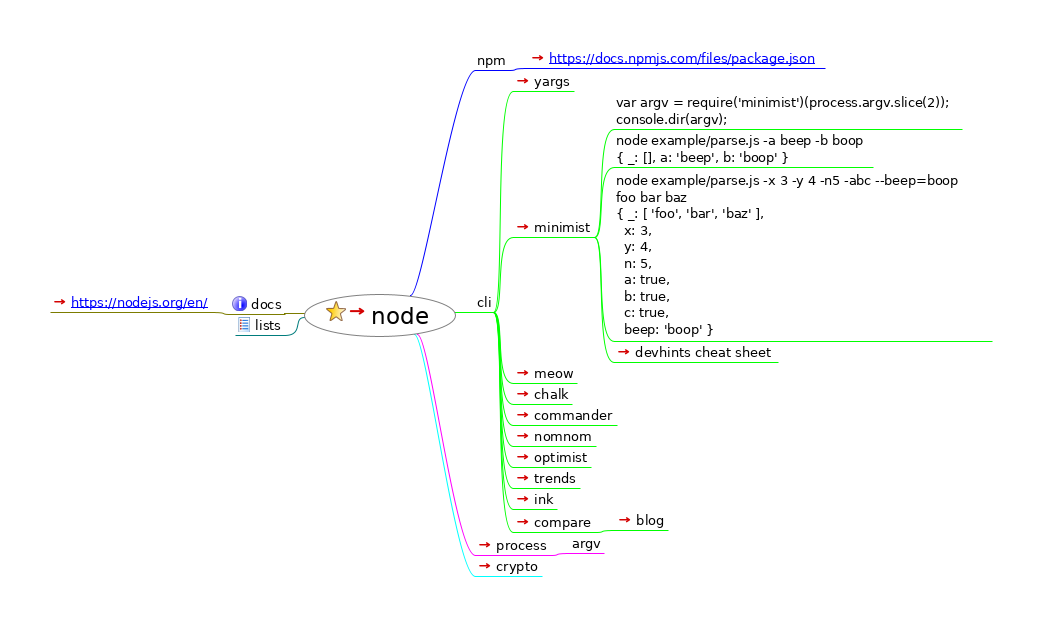
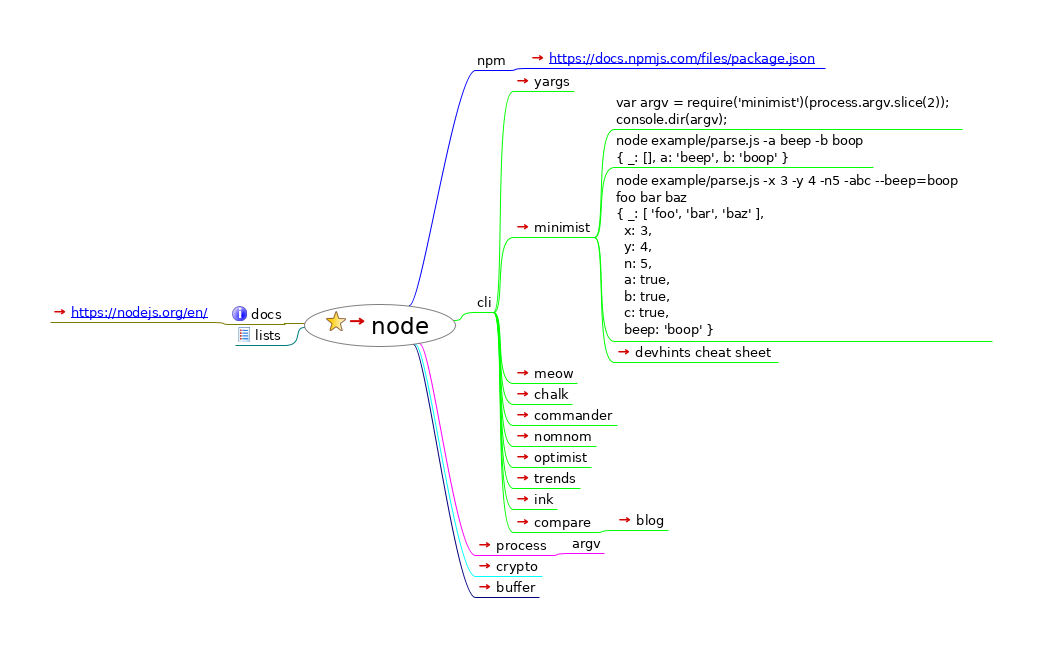
add stateofjs 2019

Changed region(s): [[0.0614, 0.1518, 0.952, 0.7588], [0.4299, 0.5767, 0.6449, 0.9409], [0.4607, 0.0607, 0.7985, 0.1518]]

diff --git a/index.html b/index.html
@@ -24,36 +24,37 @@
                };
           
           --></script></head><body><h1>JavaScript</h1><div style="width:96%;  padding:2%;  margin-bottom:10px;  border: 0px;  text-align:center;  vertical-align:center;"><img src="index.html_files/image.png" style="margin-bottom:10px; &#9;border: 0px; &#9;text-align:center; &#9;vertical-align:center;" alt="Imagemap" usemap="#fm_imagemap" /></div><map name="fm_imagemap" id="fm_imagemap"><area shape="rect" href="../tech/index.html" alt="JavaScript" title="JavaScript" coords="310,284,547,327" />
-<area shape="rect" href="https://github.com/solidpayorg/webmaps/" alt="webmaps" title="webmaps" coords="188,243,291,261" />
-<area shape="rect" href="#FMID_1425964050FM" alt="docs" title="docs" coords="236,295,291,313" />
-<area shape="rect" href="https://js-tldr.info/" alt="https://js-tldr.info/" title="https://js-tldr.info/" coords="77,264,217,282" />
-<area shape="rect" href="https://developer.mozilla.org/en-US/docs/Web/JavaScript" alt="MDN" title="MDN" coords="161,285,217,303" />
-<area shape="rect" href="https://devdocs.io/javascript/" alt="devdocs" title="devdocs" coords="138,306,217,324" />
-<area shape="rect" href="https://github.com/ryanmcdermott/clean-code-javascript" alt="clean-code-javascript" title="clean-code-javascript" coords="50,327,217,345" />
+<area shape="rect" href="https://github.com/solidpayorg/webmaps/" alt="webmaps" title="webmaps" coords="188,235,291,253" />
+<area shape="rect" href="#FMID_1425964050FM" alt="docs" title="docs" coords="236,287,291,305" />
+<area shape="rect" href="https://js-tldr.info/" alt="https://js-tldr.info/" title="https://js-tldr.info/" coords="77,256,217,274" />
+<area shape="rect" href="https://developer.mozilla.org/en-US/docs/Web/JavaScript" alt="MDN" title="MDN" coords="161,277,217,295" />
+<area shape="rect" href="https://devdocs.io/javascript/" alt="devdocs" title="devdocs" coords="138,298,217,316" />
+<area shape="rect" href="https://github.com/ryanmcdermott/clean-code-javascript" alt="clean-code-javascript" title="clean-code-javascript" coords="50,319,217,337" />
 <area shape="rect" href="#FMID_829378880FM" alt="lists" title="lists" coords="241,350,291,368" />
-<area shape="rect" href="https://github.com/sorrycc/awesome-javascript" alt="Awesome JavaScript" title="Awesome JavaScript" coords="62,348,222,366" />
+<area shape="rect" href="https://github.com/sorrycc/awesome-javascript" alt="Awesome JavaScript" title="Awesome JavaScript" coords="62,340,222,358" />
+<area shape="rect" href="https://2019.stateofjs.com/" alt="stateofjs 2019" title="stateofjs 2019" coords="103,361,222,379" />
 <area shape="rect" href="#FMID_849215328FM" alt="Communities" title="Communities" coords="566,52,676,70" />
 <area shape="rect" href="https://bxjs.dev/" alt="https://bxjs.dev/" title="https://bxjs.dev/" coords="695,50,823,68" />
 <area shape="rect" href="language.html" alt="language" title="language" coords="566,73,668,91" />
-<area shape="rect" href="#FMID_153818301FM" alt="frameworks" title="frameworks" coords="566,213,669,231" />
-<area shape="rect" href="#FMID_208171559FM" alt="MVVM" title="MVVM" coords="688,115,733,133" />
-<area shape="rect" href="react/index.html" alt="react" title="react" coords="752,94,825,112" />
-<area shape="rect" href="https://vuejs.org/" alt="vue" title="vue" coords="752,115,801,133" />
-<area shape="rect" href="https://angular.io/" alt="angular" title="angular" coords="752,136,827,154" />
-<area shape="rect" href="#FMID_156551041FM" alt="state" title="state" coords="688,245,726,263" />
-<area shape="rect" href="https://redux.js.org/" alt="Redux" title="Redux" coords="745,243,811,261" />
-<area shape="rect" href="#FMID_952075275FM" alt="A predictable state container for JavaSc ..." title="A predictable state container for JavaSc ..." coords="830,157,1162,175" />
-<area shape="rect" href="https://redux.js.org/introduction/getting-started" alt="Getting Started" title="Getting Started" coords="830,180,957,198" />
-<area shape="rect" href="#FMID_332762210FM" alt="npm install --save redux" title="npm install --save redux" coords="976,178,1142,196" />
-<area shape="rect" href="#FMID_737373630FM" alt="Terms" title="Terms" coords="830,252,881,270" />
-<area shape="rect" href="#FMID_135925682FM" alt="Store" title="Store" coords="900,211,945,229" />
-<area shape="rect" href="#FMID_877971409FM" alt="The whole state of your app is stored in ..." title="The whole state of your app is stored in ..." coords="964,201,1342,236" />
-<area shape="rect" href="#FMID_334240610FM" alt="Action" title="Action" coords="900,249,952,267" />
-<area shape="rect" href="#FMID_1174193716FM" alt="The only way to change the state tree is ..." title="The only way to change the state tree is ..." coords="971,239,1349,274" />
-<area shape="rect" href="#FMID_226284364FM" alt="Reducer" title="Reducer" coords="900,287,966,305" />
-<area shape="rect" href="#FMID_697698801FM" alt="To specify how the actions transform the ..." title="To specify how the actions transform the ..." coords="985,277,1363,312" />
-<area shape="rect" href="https://redux.js.org/introduction/examples" alt="examples" title="examples" coords="830,317,919,335" />
-<area shape="rect" href="https://codesandbox.io/s/reduxjs-joqhu" alt="codesandbox" title="codesandbox" coords="938,315,1051,333" />
+<area shape="rect" href="#FMID_153818301FM" alt="frameworks" title="frameworks" coords="566,213,668,231" />
+<area shape="rect" href="#FMID_208171559FM" alt="MVVM" title="MVVM" coords="687,115,732,133" />
+<area shape="rect" href="react/index.html" alt="react" title="react" coords="751,94,824,112" />
+<area shape="rect" href="https://vuejs.org/" alt="vue" title="vue" coords="751,115,800,133" />
+<area shape="rect" href="https://angular.io/" alt="angular" title="angular" coords="751,136,826,154" />
+<area shape="rect" href="#FMID_156551041FM" alt="state" title="state" coords="687,245,725,263" />
+<area shape="rect" href="https://redux.js.org/" alt="Redux" title="Redux" coords="744,243,810,261" />
+<area shape="rect" href="#FMID_952075275FM" alt="A predictable state container for JavaSc ..." title="A predictable state container for JavaSc ..." coords="829,157,1161,175" />
+<area shape="rect" href="https://redux.js.org/introduction/getting-started" alt="Getting Started" title="Getting Started" coords="829,180,956,198" />
+<area shape="rect" href="#FMID_332762210FM" alt="npm install --save redux" title="npm install --save redux" coords="975,178,1141,196" />
+<area shape="rect" href="#FMID_737373630FM" alt="Terms" title="Terms" coords="829,252,880,270" />
+<area shape="rect" href="#FMID_135925682FM" alt="Store" title="Store" coords="899,211,944,229" />
+<area shape="rect" href="#FMID_877971409FM" alt="The whole state of your app is stored in ..." title="The whole state of your app is stored in ..." coords="963,201,1341,236" />
+<area shape="rect" href="#FMID_334240610FM" alt="Action" title="Action" coords="899,249,951,267" />
+<area shape="rect" href="#FMID_1174193716FM" alt="The only way to change the state tree is ..." title="The only way to change the state tree is ..." coords="970,239,1348,274" />
+<area shape="rect" href="#FMID_226284364FM" alt="Reducer" title="Reducer" coords="899,287,965,305" />
+<area shape="rect" href="#FMID_697698801FM" alt="To specify how the actions transform the ..." title="To specify how the actions transform the ..." coords="984,277,1362,312" />
+<area shape="rect" href="https://redux.js.org/introduction/examples" alt="examples" title="examples" coords="829,317,918,335" />
+<area shape="rect" href="https://codesandbox.io/s/reduxjs-joqhu" alt="codesandbox" title="codesandbox" coords="937,315,1050,333" />
 <area shape="rect" href="questions.html" alt="questions" title="questions" coords="566,338,655,356" />
 <area shape="rect" href="#FMID_1460537766FM" alt="sandboxes" title="sandboxes" coords="566,390,662,408" />
 <area shape="rect" href="https://codesandbox.io/" alt="Code Sandbox" title="Code Sandbox" coords="681,359,801,377" />
@@ -69,7 +70,7 @@
 
 <div class="node"><img src="index.html_files/hide.png" class="hideshow" alt="hide" onClick="toggle(&quot;N65543&quot;)" id="imgN65543" /><img src="index.html_files/icons/bookmark.svg" alt="bookmark" /> <a id="FMID_110073400FM" /><div class="nodecontent" style="color:#000000;font-size:150%;"><a href="../tech/index.html">JavaScript</a> <a href="../tech/index.html"><img src="index.html_files/ilink.png" alt="User Link" style="border-width:0" /></a></div><div class="content" id="N65543"><div class="node"><img src="index.html_files/leaf.png" class="hideshow" alt="leaf" /><img src="index.html_files/icons/bookmark.svg" alt="bookmark" /> <a id="FMID_634574866FM" /><div class="nodecontent" style="color:#000000;font-size:83%;"><a href="https://github.com/solidpayorg/webmaps/">webmaps</a> <a href="https://github.com/solidpayorg/webmaps/"><img src="index.html_files/ilink.png" alt="User Link" style="border-width:0" /></a></div></div><div class="node"><img src="index.html_files/hide.png" class="hideshow" alt="hide" onClick="toggle(&quot;N66488&quot;)" id="imgN66488" /><img src="index.html_files/icons/info.svg" alt="info" /> <a id="FMID_1425964050FM" /><div class="nodecontent" style="color:#000000;font-size:83%;">docs</div><div class="content" id="N66488"><div class="node"><img src="index.html_files/leaf.png" class="hideshow" alt="leaf" /><a id="FMID_1375223842FM" /><div class="nodecontent" style="color:#000000;font-size:83%;"><a href="https://js-tldr.info/">
     <a http-equiv="content-type" content="text/html; charset=utf-8" href="https://js-tldr.info/">https://js-tldr.info/</a>
-  </a> <a href="https://js-tldr.info/"><img src="index.html_files/ilink.png" alt="User Link" style="border-width:0" /></a></div></div><div class="node"><img src="index.html_files/leaf.png" class="hideshow" alt="leaf" /><a id="FMID_773205118FM" /><div class="nodecontent" style="color:#000000;font-size:83%;"><a href="https://developer.mozilla.org/en-US/docs/Web/JavaScript">MDN</a> <a href="https://developer.mozilla.org/en-US/docs/Web/JavaScript"><img src="index.html_files/ilink.png" alt="User Link" style="border-width:0" /></a></div></div><div class="node"><img src="index.html_files/leaf.png" class="hideshow" alt="leaf" /><a id="FMID_83129282FM" /><div class="nodecontent" style="color:#000000;font-size:83%;"><a href="https://devdocs.io/javascript/">devdocs</a> <a href="https://devdocs.io/javascript/"><img src="index.html_files/ilink.png" alt="User Link" style="border-width:0" /></a></div></div><div class="node"><img src="index.html_files/leaf.png" class="hideshow" alt="leaf" /><a id="FMID_724832318FM" /><div class="nodecontent" style="color:#000000;font-size:83%;"><a href="https://github.com/ryanmcdermott/clean-code-javascript">clean-code-javascript</a> <a href="https://github.com/ryanmcdermott/clean-code-javascript"><img src="index.html_files/ilink.png" alt="User Link" style="border-width:0" /></a></div></div></div></div><div class="node"><img src="index.html_files/hide.png" class="hideshow" alt="hide" onClick="toggle(&quot;N66696&quot;)" id="imgN66696" /><img src="index.html_files/icons/list.svg" alt="list" /> <a id="FMID_829378880FM" /><div class="nodecontent" style="color:#000000;font-size:83%;">lists</div><div class="content" id="N66696"><div class="node"><img src="index.html_files/leaf.png" class="hideshow" alt="leaf" /><a id="FMID_157748484FM" /><div class="nodecontent" style="color:#000000;font-size:83%;"><a href="https://github.com/sorrycc/awesome-javascript">Awesome JavaScript</a> <a href="https://github.com/sorrycc/awesome-javascript"><img src="index.html_files/ilink.png" alt="User Link" style="border-width:0" /></a></div></div></div></div><div class="node"><img src="index.html_files/hide.png" class="hideshow" alt="hide" onClick="toggle(&quot;N66775&quot;)" id="imgN66775" /><img src="index.html_files/icons/licq.svg" alt="licq" /> <a id="FMID_849215328FM" /><div class="nodecontent" style="color:#000000;font-size:83%;">Communities</div><div class="content" id="N66775"><div class="node"><img src="index.html_files/leaf.png" class="hideshow" alt="leaf" /><a id="FMID_1384859362FM" /><div class="nodecontent" style="color:#000000;font-size:83%;"><a href="https://bxjs.dev/">
+  </a> <a href="https://js-tldr.info/"><img src="index.html_files/ilink.png" alt="User Link" style="border-width:0" /></a></div></div><div class="node"><img src="index.html_files/leaf.png" class="hideshow" alt="leaf" /><a id="FMID_773205118FM" /><div class="nodecontent" style="color:#000000;font-size:83%;"><a href="https://developer.mozilla.org/en-US/docs/Web/JavaScript">MDN</a> <a href="https://developer.mozilla.org/en-US/docs/Web/JavaScript"><img src="index.html_files/ilink.png" alt="User Link" style="border-width:0" /></a></div></div><div class="node"><img src="index.html_files/leaf.png" class="hideshow" alt="leaf" /><a id="FMID_83129282FM" /><div class="nodecontent" style="color:#000000;font-size:83%;"><a href="https://devdocs.io/javascript/">devdocs</a> <a href="https://devdocs.io/javascript/"><img src="index.html_files/ilink.png" alt="User Link" style="border-width:0" /></a></div></div><div class="node"><img src="index.html_files/leaf.png" class="hideshow" alt="leaf" /><a id="FMID_724832318FM" /><div class="nodecontent" style="color:#000000;font-size:83%;"><a href="https://github.com/ryanmcdermott/clean-code-javascript">clean-code-javascript</a> <a href="https://github.com/ryanmcdermott/clean-code-javascript"><img src="index.html_files/ilink.png" alt="User Link" style="border-width:0" /></a></div></div></div></div><div class="node"><img src="index.html_files/hide.png" class="hideshow" alt="hide" onClick="toggle(&quot;N66696&quot;)" id="imgN66696" /><img src="index.html_files/icons/list.svg" alt="list" /> <a id="FMID_829378880FM" /><div class="nodecontent" style="color:#000000;font-size:83%;">lists</div><div class="content" id="N66696"><div class="node"><img src="index.html_files/leaf.png" class="hideshow" alt="leaf" /><a id="FMID_157748484FM" /><div class="nodecontent" style="color:#000000;font-size:83%;"><a href="https://github.com/sorrycc/awesome-javascript">Awesome JavaScript</a> <a href="https://github.com/sorrycc/awesome-javascript"><img src="index.html_files/ilink.png" alt="User Link" style="border-width:0" /></a></div></div><div class="node"><img src="index.html_files/leaf.png" class="hideshow" alt="leaf" /><a id="FMID_1532315868FM" /><div class="nodecontent" style="color:#000000;font-size:83%;"><a href="https://2019.stateofjs.com/">stateofjs 2019</a> <a href="https://2019.stateofjs.com/"><img src="index.html_files/ilink.png" alt="User Link" style="border-width:0" /></a></div></div></div></div><div class="node"><img src="index.html_files/hide.png" class="hideshow" alt="hide" onClick="toggle(&quot;N66812&quot;)" id="imgN66812" /><img src="index.html_files/icons/licq.svg" alt="licq" /> <a id="FMID_849215328FM" /><div class="nodecontent" style="color:#000000;font-size:83%;">Communities</div><div class="content" id="N66812"><div class="node"><img src="index.html_files/leaf.png" class="hideshow" alt="leaf" /><a id="FMID_1384859362FM" /><div class="nodecontent" style="color:#000000;font-size:83%;"><a href="https://bxjs.dev/">
     <a http-equiv="content-type" content="text/html; charset=utf-8" href="https://bxjs.dev/">https://bxjs.dev/</a>
-  </a> <a href="https://bxjs.dev/"><img src="index.html_files/ilink.png" alt="User Link" style="border-width:0" /></a></div></div></div></div><div class="node"><img src="index.html_files/leaf.png" class="hideshow" alt="leaf" /><img src="index.html_files/icons/edit.svg" alt="edit" /> <a id="FMID_1566689685FM" /><div class="nodecontent" style="color:#000000;font-size:83%;"><a href="language.html">language</a> <a href="language.html"><img src="index.html_files/ilink.png" alt="User Link" style="border-width:0" /></a></div></div><div class="node"><img src="index.html_files/hide.png" class="hideshow" alt="hide" onClick="toggle(&quot;N66915&quot;)" id="imgN66915" /><img src="index.html_files/icons/executable.svg" alt="executable" /> <a id="FMID_153818301FM" /><div class="nodecontent" style="color:#000000;font-size:83%;">frameworks</div><div class="content" id="N66915"><div class="node"><img src="index.html_files/hide.png" class="hideshow" alt="hide" onClick="toggle(&quot;N66956&quot;)" id="imgN66956" /><a id="FMID_208171559FM" /><div class="nodecontent" style="color:#000000;font-size:83%;">MVVM</div><div class="content" id="N66956"><div class="node"><img src="index.html_files/leaf.png" class="hideshow" alt="leaf" /><img src="index.html_files/icons/list.svg" alt="list" /> <a id="FMID_921980201FM" /><div class="nodecontent" style="color:#000000;font-size:83%;"><a href="react/index.html">react</a> <a href="react/index.html"><img src="index.html_files/ilink.png" alt="User Link" style="border-width:0" /></a></div></div><div class="node"><img src="index.html_files/leaf.png" class="hideshow" alt="leaf" /><a id="FMID_850712897FM" /><div class="nodecontent" style="color:#000000;font-size:83%;"><a href="https://vuejs.org/">vue</a> <a href="https://vuejs.org/"><img src="index.html_files/ilink.png" alt="User Link" style="border-width:0" /></a></div></div><div class="node"><img src="index.html_files/leaf.png" class="hideshow" alt="leaf" /><a id="FMID_101804111FM" /><div class="nodecontent" style="color:#000000;font-size:83%;"><a href="https://angular.io/">angular</a> <a href="https://angular.io/"><img src="index.html_files/ilink.png" alt="User Link" style="border-width:0" /></a></div></div></div></div><div class="node"><img src="index.html_files/hide.png" class="hideshow" alt="hide" onClick="toggle(&quot;N67108&quot;)" id="imgN67108" /><a id="FMID_156551041FM" /><div class="nodecontent" style="color:#000000;font-size:83%;">state</div><div class="content" id="N67108"><div class="node"><img src="index.html_files/hide.png" class="hideshow" alt="hide" onClick="toggle(&quot;N67143&quot;)" id="imgN67143" /><a id="FMID_1287476678FM" /><div class="nodecontent" style="color:#000000;font-size:83%;"><a href="https://redux.js.org/">Redux</a> <a href="https://redux.js.org/"><img src="index.html_files/ilink.png" alt="User Link" style="border-width:0" /></a></div><div class="content" id="N67143"><div class="node"><img src="index.html_files/leaf.png" class="hideshow" alt="leaf" /><a id="FMID_952075275FM" /><div class="nodecontent" style="color:#000000;font-size:83%;">A predictable state container for JavaScript apps.</div></div><div class="node"><img src="index.html_files/hide.png" class="hideshow" alt="hide" onClick="toggle(&quot;N67215&quot;)" id="imgN67215" /><a id="FMID_597064892FM" /><div class="nodecontent" style="color:#000000;font-size:83%;"><a href="https://redux.js.org/introduction/getting-started">Getting Started</a> <a href="https://redux.js.org/introduction/getting-started"><img src="index.html_files/ilink.png" alt="User Link" style="border-width:0" /></a></div><div class="content" id="N67215"><div class="node"><img src="index.html_files/leaf.png" class="hideshow" alt="leaf" /><a id="FMID_332762210FM" /><div class="nodecontent" style="color:#000000;font-size:83%;">npm install --save redux</div></div></div></div><div class="node"><img src="index.html_files/hide.png" class="hideshow" alt="hide" onClick="toggle(&quot;N67288&quot;)" id="imgN67288" /><a id="FMID_737373630FM" /><div class="nodecontent" style="color:#000000;font-size:83%;font-weight:bold;">Terms</div><div class="content" id="N67288"><div class="node"><img src="index.html_files/hide.png" class="hideshow" alt="hide" onClick="toggle(&quot;N67323&quot;)" id="imgN67323" /><a id="FMID_135925682FM" /><div class="nodecontent" style="color:#000000;font-size:83%;font-weight:bold;">Store</div><div class="content" id="N67323"><div class="node"><img src="index.html_files/leaf.png" class="hideshow" alt="leaf" /><a id="FMID_877971409FM" /><div class="nodecontent" style="color:#000000;font-size:83%;">The whole state of your app is stored in an object tree inside a single store.</div></div></div></div><div class="node"><img src="index.html_files/hide.png" class="hideshow" alt="hide" onClick="toggle(&quot;N67395&quot;)" id="imgN67395" /><a id="FMID_334240610FM" /><div class="nodecontent" style="color:#000000;font-size:83%;font-weight:bold;">Action</div><div class="content" id="N67395"><div class="node"><img src="index.html_files/leaf.png" class="hideshow" alt="leaf" /><a id="FMID_1174193716FM" /><div class="nodecontent" style="color:#000000;font-size:83%;">The only way to change the state tree is to emit an action, an object describing what happened.</div></div></div></div><div class="node"><img src="index.html_files/hide.png" class="hideshow" alt="hide" onClick="toggle(&quot;N67467&quot;)" id="imgN67467" /><a id="FMID_226284364FM" /><div class="nodecontent" style="color:#000000;font-size:83%;font-weight:bold;">Reducer</div><div class="content" id="N67467"><div class="node"><img src="index.html_files/leaf.png" class="hideshow" alt="leaf" /><a id="FMID_697698801FM" /><div class="nodecontent" style="color:#000000;font-size:83%;">To specify how the actions transform the state tree, you write pure reducers.</div></div></div></div></div></div><div class="node"><img src="index.html_files/hide.png" class="hideshow" alt="hide" onClick="toggle(&quot;N67540&quot;)" id="imgN67540" /><a id="FMID_1437141218FM" /><div class="nodecontent" style="color:#000000;font-size:83%;"><a href="https://redux.js.org/introduction/examples">examples</a> <a href="https://redux.js.org/introduction/examples"><img src="index.html_files/ilink.png" alt="User Link" style="border-width:0" /></a></div><div class="content" id="N67540"><div class="node"><img src="index.html_files/leaf.png" class="hideshow" alt="leaf" /><a id="FMID_1397733159FM" /><div class="nodecontent" style="color:#000000;font-size:83%;"><a href="https://codesandbox.io/s/reduxjs-joqhu">codesandbox</a> <a href="https://codesandbox.io/s/reduxjs-joqhu"><img src="index.html_files/ilink.png" alt="User Link" style="border-width:0" /></a></div></div></div></div></div></div></div></div></div></div><div class="node"><img src="index.html_files/leaf.png" class="hideshow" alt="leaf" /><a id="FMID_845980270FM" /><div class="nodecontent" style="color:#000000;font-size:83%;"><a href="questions.html">questions</a> <a href="questions.html"><img src="index.html_files/ilink.png" alt="User Link" style="border-width:0" /></a></div></div><div class="node"><img src="index.html_files/hide.png" class="hideshow" alt="hide" onClick="toggle(&quot;N67655&quot;)" id="imgN67655" /><img src="index.html_files/icons/pencil.svg" alt="pencil" /> <a id="FMID_1460537766FM" /><div class="nodecontent" style="color:#000000;font-size:83%;">sandboxes</div><div class="content" id="N67655"><div class="node"><img src="index.html_files/leaf.png" class="hideshow" alt="leaf" /><a id="FMID_899668548FM" /><div class="nodecontent" style="color:#000000;font-size:83%;"><a href="https://codesandbox.io/">Code Sandbox</a> <a href="https://codesandbox.io/"><img src="index.html_files/ilink.png" alt="User Link" style="border-width:0" /></a></div></div><div class="node"><img src="index.html_files/leaf.png" class="hideshow" alt="leaf" /><a id="FMID_1286093091FM" /><div class="nodecontent" style="color:#000000;font-size:83%;"><a href="https://glitch.com/">Glitch</a> <a href="https://glitch.com/"><img src="index.html_files/ilink.png" alt="User Link" style="border-width:0" /></a></div></div><div class="node"><img src="index.html_files/leaf.png" class="hideshow" alt="leaf" /><a id="FMID_942460316FM" /><div class="nodecontent" style="color:#000000;font-size:83%;"><a href="https://codepen.io/">Codepen</a> <a href="https://codepen.io/"><img src="index.html_files/ilink.png" alt="User Link" style="border-width:0" /></a></div></div><div class="node"><img src="index.html_files/leaf.png" class="hideshow" alt="leaf" /><a id="FMID_1150601009FM" /><div class="nodecontent" style="color:#000000;font-size:83%;"><a href="https://jsfiddle.net/">JS Fiddle</a> <a href="https://jsfiddle.net/"><img src="index.html_files/ilink.png" alt="User Link" style="border-width:0" /></a></div></div></div></div><div class="node"><img src="index.html_files/leaf.png" class="hideshow" alt="leaf" /><img src="index.html_files/icons/16x16-free-application-icons/png/16x16/Database.png" alt="16x16-free-application-icons/png/16x16/Database" /> <a id="FMID_1516168898FM" /><div class="nodecontent" style="color:#000000;font-size:83%;"><a href="server/index.html">server</a> <a href="server/index.html"><img src="index.html_files/ilink.png" alt="User Link" style="border-width:0" /></a></div></div><div class="node"><img src="index.html_files/leaf.png" class="hideshow" alt="leaf" /><img src="index.html_files/icons/stop-sign.svg" alt="stop-sign" /> <a id="FMID_437549538FM" /><div class="nodecontent" style="color:#000000;font-size:83%;"><a href="https://blog.appsignal.com/2019/10/17/javascript-errors-an-exceptional-history.html">errors</a> <a href="https://blog.appsignal.com/2019/10/17/javascript-errors-an-exceptional-history.html"><img src="index.html_files/ilink.png" alt="User Link" style="border-width:0" /></a></div></div><div class="node"><img src="index.html_files/leaf.png" class="hideshow" alt="leaf" /><img src="index.html_files/icons/very_positive.svg" alt="very_positive" /> <a id="FMID_51150335FM" /><div class="nodecontent" style="color:#000000;font-size:83%;"><a href="articles/index.html">articles</a> <a href="articles/index.html"><img src="index.html_files/ilink.png" alt="User Link" style="border-width:0" /></a></div></div><div class="node"><img src="index.html_files/leaf.png" class="hideshow" alt="leaf" /><a id="FMID_452171129FM" /><div class="nodecontent" style="color:#000000;font-size:83%;"><a href="apps/index.html">apps</a> <a href="apps/index.html"><img src="index.html_files/ilink.png" alt="User Link" style="border-width:0" /></a></div></div><div class="node"><img src="index.html_files/leaf.png" class="hideshow" alt="leaf" /><a id="FMID_1132407233FM" /><div class="nodecontent" style="color:#000000;font-size:83%;"><a href="DOM.html">DOM</a> <a href="DOM.html"><img src="index.html_files/ilink.png" alt="User Link" style="border-width:0" /></a></div></div></div></div>
+  </a> <a href="https://bxjs.dev/"><img src="index.html_files/ilink.png" alt="User Link" style="border-width:0" /></a></div></div></div></div><div class="node"><img src="index.html_files/leaf.png" class="hideshow" alt="leaf" /><img src="index.html_files/icons/edit.svg" alt="edit" /> <a id="FMID_1566689685FM" /><div class="nodecontent" style="color:#000000;font-size:83%;"><a href="language.html">language</a> <a href="language.html"><img src="index.html_files/ilink.png" alt="User Link" style="border-width:0" /></a></div></div><div class="node"><img src="index.html_files/hide.png" class="hideshow" alt="hide" onClick="toggle(&quot;N66952&quot;)" id="imgN66952" /><img src="index.html_files/icons/executable.svg" alt="executable" /> <a id="FMID_153818301FM" /><div class="nodecontent" style="color:#000000;font-size:83%;">frameworks</div><div class="content" id="N66952"><div class="node"><img src="index.html_files/hide.png" class="hideshow" alt="hide" onClick="toggle(&quot;N66993&quot;)" id="imgN66993" /><a id="FMID_208171559FM" /><div class="nodecontent" style="color:#000000;font-size:83%;">MVVM</div><div class="content" id="N66993"><div class="node"><img src="index.html_files/leaf.png" class="hideshow" alt="leaf" /><img src="index.html_files/icons/list.svg" alt="list" /> <a id="FMID_921980201FM" /><div class="nodecontent" style="color:#000000;font-size:83%;"><a href="react/index.html">react</a> <a href="react/index.html"><img src="index.html_files/ilink.png" alt="User Link" style="border-width:0" /></a></div></div><div class="node"><img src="index.html_files/leaf.png" class="hideshow" alt="leaf" /><a id="FMID_850712897FM" /><div class="nodecontent" style="color:#000000;font-size:83%;"><a href="https://vuejs.org/">vue</a> <a href="https://vuejs.org/"><img src="index.html_files/ilink.png" alt="User Link" style="border-width:0" /></a></div></div><div class="node"><img src="index.html_files/leaf.png" class="hideshow" alt="leaf" /><a id="FMID_101804111FM" /><div class="nodecontent" style="color:#000000;font-size:83%;"><a href="https://angular.io/">angular</a> <a href="https://angular.io/"><img src="index.html_files/ilink.png" alt="User Link" style="border-width:0" /></a></div></div></div></div><div class="node"><img src="index.html_files/hide.png" class="hideshow" alt="hide" onClick="toggle(&quot;N67145&quot;)" id="imgN67145" /><a id="FMID_156551041FM" /><div class="nodecontent" style="color:#000000;font-size:83%;">state</div><div class="content" id="N67145"><div class="node"><img src="index.html_files/hide.png" class="hideshow" alt="hide" onClick="toggle(&quot;N67180&quot;)" id="imgN67180" /><a id="FMID_1287476678FM" /><div class="nodecontent" style="color:#000000;font-size:83%;"><a href="https://redux.js.org/">Redux</a> <a href="https://redux.js.org/"><img src="index.html_files/ilink.png" alt="User Link" style="border-width:0" /></a></div><div class="content" id="N67180"><div class="node"><img src="index.html_files/leaf.png" class="hideshow" alt="leaf" /><a id="FMID_952075275FM" /><div class="nodecontent" style="color:#000000;font-size:83%;">A predictable state container for JavaScript apps.</div></div><div class="node"><img src="index.html_files/hide.png" class="hideshow" alt="hide" onClick="toggle(&quot;N67252&quot;)" id="imgN67252" /><a id="FMID_597064892FM" /><div class="nodecontent" style="color:#000000;font-size:83%;"><a href="https://redux.js.org/introduction/getting-started">Getting Started</a> <a href="https://redux.js.org/introduction/getting-started"><img src="index.html_files/ilink.png" alt="User Link" style="border-width:0" /></a></div><div class="content" id="N67252"><div class="node"><img src="index.html_files/leaf.png" class="hideshow" alt="leaf" /><a id="FMID_332762210FM" /><div class="nodecontent" style="color:#000000;font-size:83%;">npm install --save redux</div></div></div></div><div class="node"><img src="index.html_files/hide.png" class="hideshow" alt="hide" onClick="toggle(&quot;N67325&quot;)" id="imgN67325" /><a id="FMID_737373630FM" /><div class="nodecontent" style="color:#000000;font-size:83%;font-weight:bold;">Terms</div><div class="content" id="N67325"><div class="node"><img src="index.html_files/hide.png" class="hideshow" alt="hide" onClick="toggle(&quot;N67360&quot;)" id="imgN67360" /><a id="FMID_135925682FM" /><div class="nodecontent" style="color:#000000;font-size:83%;font-weight:bold;">Store</div><div class="content" id="N67360"><div class="node"><img src="index.html_files/leaf.png" class="hideshow" alt="leaf" /><a id="FMID_877971409FM" /><div class="nodecontent" style="color:#000000;font-size:83%;">The whole state of your app is stored in an object tree inside a single store.</div></div></div></div><div class="node"><img src="index.html_files/hide.png" class="hideshow" alt="hide" onClick="toggle(&quot;N67432&quot;)" id="imgN67432" /><a id="FMID_334240610FM" /><div class="nodecontent" style="color:#000000;font-size:83%;font-weight:bold;">Action</div><div class="content" id="N67432"><div class="node"><img src="index.html_files/leaf.png" class="hideshow" alt="leaf" /><a id="FMID_1174193716FM" /><div class="nodecontent" style="color:#000000;font-size:83%;">The only way to change the state tree is to emit an action, an object describing what happened.</div></div></div></div><div class="node"><img src="index.html_files/hide.png" class="hideshow" alt="hide" onClick="toggle(&quot;N67504&quot;)" id="imgN67504" /><a id="FMID_226284364FM" /><div class="nodecontent" style="color:#000000;font-size:83%;font-weight:bold;">Reducer</div><div class="content" id="N67504"><div class="node"><img src="index.html_files/leaf.png" class="hideshow" alt="leaf" /><a id="FMID_697698801FM" /><div class="nodecontent" style="color:#000000;font-size:83%;">To specify how the actions transform the state tree, you write pure reducers.</div></div></div></div></div></div><div class="node"><img src="index.html_files/hide.png" class="hideshow" alt="hide" onClick="toggle(&quot;N67577&quot;)" id="imgN67577" /><a id="FMID_1437141218FM" /><div class="nodecontent" style="color:#000000;font-size:83%;"><a href="https://redux.js.org/introduction/examples">examples</a> <a href="https://redux.js.org/introduction/examples"><img src="index.html_files/ilink.png" alt="User Link" style="border-width:0" /></a></div><div class="content" id="N67577"><div class="node"><img src="index.html_files/leaf.png" class="hideshow" alt="leaf" /><a id="FMID_1397733159FM" /><div class="nodecontent" style="color:#000000;font-size:83%;"><a href="https://codesandbox.io/s/reduxjs-joqhu">codesandbox</a> <a href="https://codesandbox.io/s/reduxjs-joqhu"><img src="index.html_files/ilink.png" alt="User Link" style="border-width:0" /></a></div></div></div></div></div></div></div></div></div></div><div class="node"><img src="index.html_files/leaf.png" class="hideshow" alt="leaf" /><a id="FMID_845980270FM" /><div class="nodecontent" style="color:#000000;font-size:83%;"><a href="questions.html">questions</a> <a href="questions.html"><img src="index.html_files/ilink.png" alt="User Link" style="border-width:0" /></a></div></div><div class="node"><img src="index.html_files/hide.png" class="hideshow" alt="hide" onClick="toggle(&quot;N67692&quot;)" id="imgN67692" /><img src="index.html_files/icons/pencil.svg" alt="pencil" /> <a id="FMID_1460537766FM" /><div class="nodecontent" style="color:#000000;font-size:83%;">sandboxes</div><div class="content" id="N67692"><div class="node"><img src="index.html_files/leaf.png" class="hideshow" alt="leaf" /><a id="FMID_899668548FM" /><div class="nodecontent" style="color:#000000;font-size:83%;"><a href="https://codesandbox.io/">Code Sandbox</a> <a href="https://codesandbox.io/"><img src="index.html_files/ilink.png" alt="User Link" style="border-width:0" /></a></div></div><div class="node"><img src="index.html_files/leaf.png" class="hideshow" alt="leaf" /><a id="FMID_1286093091FM" /><div class="nodecontent" style="color:#000000;font-size:83%;"><a href="https://glitch.com/">Glitch</a> <a href="https://glitch.com/"><img src="index.html_files/ilink.png" alt="User Link" style="border-width:0" /></a></div></div><div class="node"><img src="index.html_files/leaf.png" class="hideshow" alt="leaf" /><a id="FMID_942460316FM" /><div class="nodecontent" style="color:#000000;font-size:83%;"><a href="https://codepen.io/">Codepen</a> <a href="https://codepen.io/"><img src="index.html_files/ilink.png" alt="User Link" style="border-width:0" /></a></div></div><div class="node"><img src="index.html_files/leaf.png" class="hideshow" alt="leaf" /><a id="FMID_1150601009FM" /><div class="nodecontent" style="color:#000000;font-size:83%;"><a href="https://jsfiddle.net/">JS Fiddle</a> <a href="https://jsfiddle.net/"><img src="index.html_files/ilink.png" alt="User Link" style="border-width:0" /></a></div></div></div></div><div class="node"><img src="index.html_files/leaf.png" class="hideshow" alt="leaf" /><img src="index.html_files/icons/16x16-free-application-icons/png/16x16/Database.png" alt="16x16-free-application-icons/png/16x16/Database" /> <a id="FMID_1516168898FM" /><div class="nodecontent" style="color:#000000;font-size:83%;"><a href="server/index.html">server</a> <a href="server/index.html"><img src="index.html_files/ilink.png" alt="User Link" style="border-width:0" /></a></div></div><div class="node"><img src="index.html_files/leaf.png" class="hideshow" alt="leaf" /><img src="index.html_files/icons/stop-sign.svg" alt="stop-sign" /> <a id="FMID_437549538FM" /><div class="nodecontent" style="color:#000000;font-size:83%;"><a href="https://blog.appsignal.com/2019/10/17/javascript-errors-an-exceptional-history.html">errors</a> <a href="https://blog.appsignal.com/2019/10/17/javascript-errors-an-exceptional-history.html"><img src="index.html_files/ilink.png" alt="User Link" style="border-width:0" /></a></div></div><div class="node"><img src="index.html_files/leaf.png" class="hideshow" alt="leaf" /><img src="index.html_files/icons/very_positive.svg" alt="very_positive" /> <a id="FMID_51150335FM" /><div class="nodecontent" style="color:#000000;font-size:83%;"><a href="articles/index.html">articles</a> <a href="articles/index.html"><img src="index.html_files/ilink.png" alt="User Link" style="border-width:0" /></a></div></div><div class="node"><img src="index.html_files/leaf.png" class="hideshow" alt="leaf" /><a id="FMID_452171129FM" /><div class="nodecontent" style="color:#000000;font-size:83%;"><a href="apps/index.html">apps</a> <a href="apps/index.html"><img src="index.html_files/ilink.png" alt="User Link" style="border-width:0" /></a></div></div><div class="node"><img src="index.html_files/leaf.png" class="hideshow" alt="leaf" /><a id="FMID_1132407233FM" /><div class="nodecontent" style="color:#000000;font-size:83%;"><a href="DOM.html">DOM</a> <a href="DOM.html"><img src="index.html_files/ilink.png" alt="User Link" style="border-width:0" /></a></div></div></div></div>
 </body></html>

diff --git a/server/node/index.mm b/server/node/index.mm
@@ -64,7 +64,7 @@
 </stylenode>
 </map_styles>
 </hook>
-<hook NAME="AutomaticEdgeColor" COUNTER="17" RULE="ON_BRANCH_CREATION"/>
+<hook NAME="AutomaticEdgeColor" COUNTER="18" RULE="ON_BRANCH_CREATION"/>
 <node TEXT="docs" POSITION="left" ID="ID_1425964050" CREATED="1572497990298" MODIFIED="1572498279093">
 <icon BUILTIN="info"/>
 <edge COLOR="#7c7c00"/>
@@ -126,6 +126,9 @@
 </node>
 <node TEXT="crypto" POSITION="right" ID="ID_139862141" CREATED="1577230150936" MODIFIED="1577230150940" LINK="crypto.mm">
 <edge STYLE="bezier" COLOR="#00ffff" WIDTH="thin"/>
+</node>
+<node TEXT="buffer" POSITION="right" ID="ID_1028977624" CREATED="1577254246918" MODIFIED="1577254251870" LINK="buffer.mm">
+<edge COLOR="#00007c"/>
 </node>
 </node>
 </map>

diff --git a/index.mm b/index.mm
@@ -92,6 +92,7 @@
 <icon BUILTIN="list"/>
 <edge COLOR="#007c7c"/>
 <node TEXT="Awesome JavaScript" ID="ID_157748484" CREATED="1571361132464" MODIFIED="1572498017973" LINK="https://github.com/sorrycc/awesome-javascript"/>
+<node TEXT="stateofjs 2019" ID="ID_1532315868" CREATED="1577431173433" MODIFIED="1577431304142" LINK="https://2019.stateofjs.com/"/>
 </node>
 <node TEXT="Communities" POSITION="right" ID="ID_849215328" CREATED="1570476065863" MODIFIED="1574676159071">
 <icon BUILTIN="licq"/>
